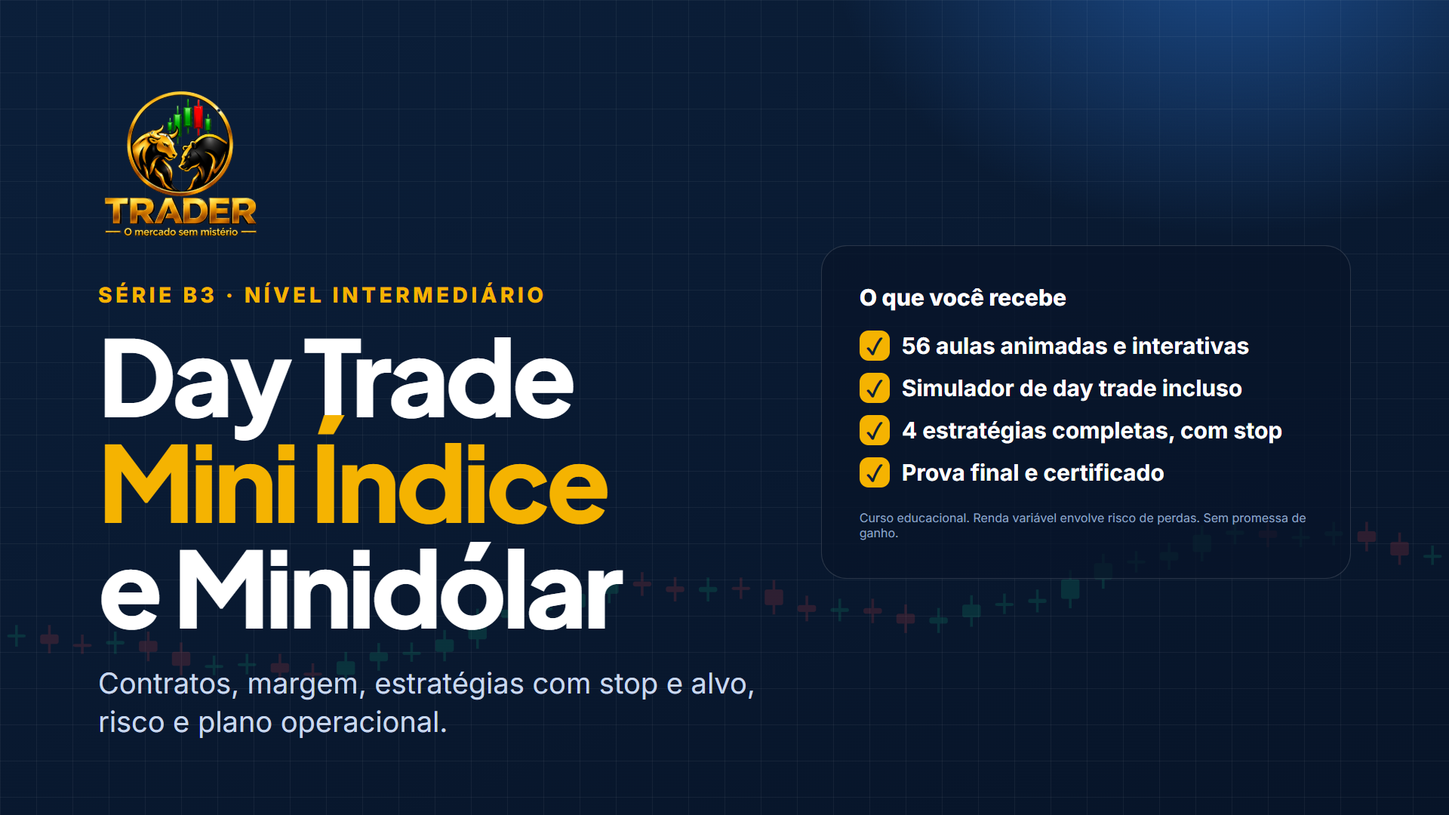
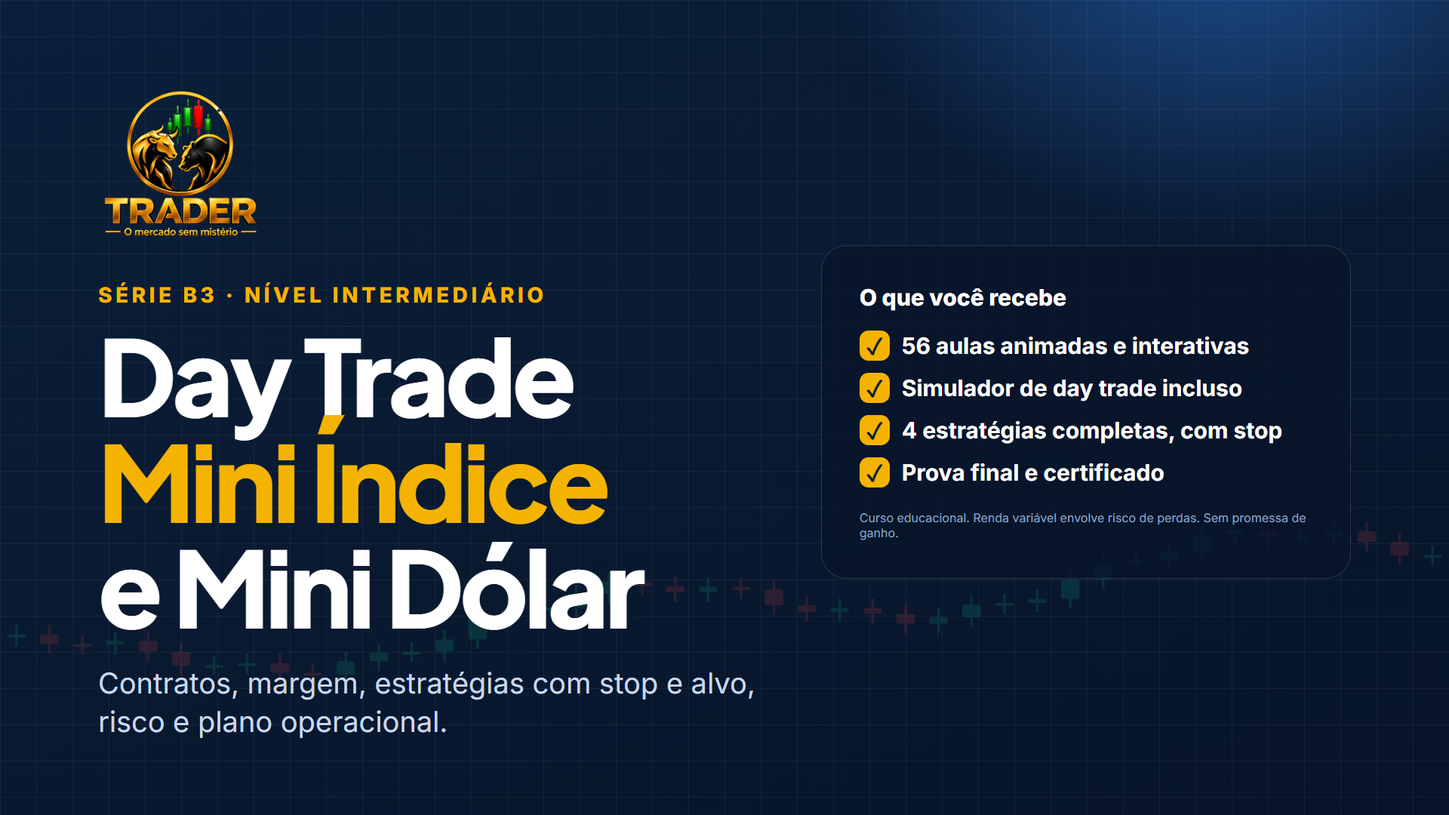
Day Trade: "Mini Dólar" separado no nome, nos textos e nas imagens

Changed region(s): [[0.25, 0.6417, 0.4688, 0.7944]]

diff --git a/curso-day-trade.html b/curso-day-trade.html
@@ -3,11 +3,11 @@
 <head>
 <meta charset="utf-8">
 <meta name="viewport" content="width=device-width, initial-scale=1">
-<title>Day Trade — Dominando o Mini Índice e o Minidólar | Curso com simulador</title>
-<meta name="description" content="Mini índice e minidólar com método: contratos, margem, estratégias com stop e alvo, risco, psicologia e plano operacional. 56 aulas e simulador.">
-<meta property="og:title" content="Day Trade — Dominando o Mini Índice e o Minidólar">
-<meta property="og:description" content="Mini índice e minidólar com método: contratos, margem, estratégias com stop e alvo, risco, psicologia e plano operacional. 56 aulas e simulador.">
-<meta property="og:image" content="https://mesquitaigorsaas.github.io/mercadosemmisterio/assets/img/produtos/day-trade-banner-1920x1080.png">
+<title>Day Trade — Dominando o Mini Índice e o Mini Dólar | Curso com simulador</title>
+<meta name="description" content="Mini índice e mini dólar com método: contratos, margem, estratégias com stop e alvo, risco, psicologia e plano operacional. 56 aulas e simulador.">
+<meta property="og:title" content="Day Trade — Dominando o Mini Índice e o Mini Dólar">
+<meta property="og:description" content="Mini índice e mini dólar com método: contratos, margem, estratégias com stop e alvo, risco, psicologia e plano operacional. 56 aulas e simulador.">
+<meta property="og:image" content="https://mesquitaigorsaas.github.io/mercadosemmisterio/assets/img/produtos/day-trade-banner-1920x1080.png?v=2">
 <meta name="theme-color" content="#050e1f">
 <link rel="icon" href="assets/img/emblema-128.png">
 <link rel="preconnect" href="https://fonts.googleapis.com"><link rel="preconnect" href="https://fonts.gstatic.com" crossorigin>
@@ -76,14 +76,14 @@
 
 <section class="hero" style="padding-bottom:70px"><canvas data-velas aria-hidden="true"></canvas><span class="brilho" style="background:#f5b301;top:-140px;left:30%;opacity:.16"></span><div class="wrap hero-curso">
   <div>
-    <span class="eyebrow" style="display:block">Day Trade — Dominando o Mini Índice e o Minidólar · intermediário</span>
-    <h1 style="font-size:clamp(34px,5.2vw,58px);margin-top:14px">Mini índice e minidólar com <em>método</em> — e não no impulso.</h1>
+    <span class="eyebrow" style="display:block">Day Trade — Dominando o Mini Índice e o Mini Dólar · intermediário</span>
+    <h1 style="font-size:clamp(34px,5.2vw,58px);margin-top:14px">Mini índice e mini dólar com <em>método</em> — e não no impulso.</h1>
     <p class="lead">56 aulas animadas e interativas e um simulador de day trade para treinar sem dinheiro real. Entenda o que você está operando, quanto pode perder, quando entrar, quando não entrar e como sair.</p>
     <div class="preco-hero"><b>R$ 97</b><span>à vista no Pix ou em até 12x no cartão</span></div>
     <div class="acoes"><a class="btn btn-ouro btn-g" href="#oferta" data-comprar data-curso="day-trade">Quero começar agora</a><a class="btn btn-sec btn-g" href="#conteudo">Ver o conteúdo</a></div>
     <div class="selos"><span>🛡 7 dias de garantia</span><span>🎓 Certificado</span><span>♾ Acesso vitalício</span><span>📱 No computador e no celular</span><span>🔒 Pagamento seguro pelo Mercado Pago</span></div>
   </div>
-  <div class="tela-mock surge"><img src="assets/img/produtos/day-trade-banner-1920x1080.png" alt="Day Trade — Dominando o Mini Índice e o Minidólar" width="1920" height="1080"><div class="pill">✓ Simulador de WIN e WDO, candle a candle</div></div>
+  <div class="tela-mock surge"><img src="assets/img/produtos/day-trade-banner-1920x1080.png?v=2" alt="Day Trade — Dominando o Mini Índice e o Mini Dólar" width="1920" height="1080"><div class="pill">✓ Simulador de WIN e WDO, candle a candle</div></div>
 </div></section>
 
 <section style="padding:0 0 70px"><div class="wrap">
@@ -113,9 +113,9 @@
   <div class="sec-titulo surge"><span class="eyebrow">Conteúdo completo</span><h2>10 módulos, 56 aulas</h2><p>Clique em cada módulo para ver as aulas. No fim: prova final e certificado.</p></div>
   <div>
     <details class="mod surge"><summary><span class="n">Módulo 0</span><span>Boas-vindas e a verdade sobre o day trade</span><span class="q">4 aulas</span></summary><ol><li><b class="ouro">0.1</b> Boas-vindas e mapa do curso</li><li><b class="ouro">0.2</b> A verdade sobre o day trade</li><li><b class="ouro">0.3</b> Alavancagem: o aviso que vem primeiro</li><li><b class="ouro">0.4</b> Pré-requisitos e ambiente</li></ol></details>
-    <details class="mod surge"><summary><span class="n">Módulo 1</span><span>Os contratos: mini índice e minidólar</span><span class="q">7 aulas</span></summary><ol><li><b class="ouro">1.1</b> O que é um contrato futuro</li><li><b class="ouro">1.2</b> Mini índice (WIN): a ficha técnica</li><li><b class="ouro">1.3</b> Minidólar (WDO): a ficha técnica</li><li><b class="ouro">1.4</b> Códigos, vencimentos e rolagem</li><li><b class="ouro">1.5</b> Ajuste diário</li><li><b class="ouro">1.6</b> Horários, leilão e circuit breaker</li><li><b class="ouro">1.7</b> Custos e impostos do day trade</li></ol></details>
+    <details class="mod surge"><summary><span class="n">Módulo 1</span><span>Os contratos: mini índice e mini dólar</span><span class="q">7 aulas</span></summary><ol><li><b class="ouro">1.1</b> O que é um contrato futuro</li><li><b class="ouro">1.2</b> Mini índice (WIN): a ficha técnica</li><li><b class="ouro">1.3</b> Mini Dólar (WDO): a ficha técnica</li><li><b class="ouro">1.4</b> Códigos, vencimentos e rolagem</li><li><b class="ouro">1.5</b> Ajuste diário</li><li><b class="ouro">1.6</b> Horários, leilão e circuit breaker</li><li><b class="ouro">1.7</b> Custos e impostos do day trade</li></ol></details>
     <details class="mod surge"><summary><span class="n">Módulo 2</span><span>Margem e alavancagem</span><span class="q">5 aulas</span></summary><ol><li><b class="ouro">2.1</b> O que é margem de garantia</li><li><b class="ouro">2.2</b> Alavancagem em números</li><li><b class="ouro">2.3</b> Margem de day trade × de posição</li><li><b class="ouro">2.4</b> Zeragem compulsória e chamada de margem</li><li><b class="ouro">2.5</b> Quando se perde mais do que se tem</li></ol></details>
-    <details class="mod surge"><summary><span class="n">Módulo 3</span><span>Leitura do mercado em tempo real</span><span class="q">7 aulas</span></summary><ol><li><b class="ouro">3.1</b> O que move o mini índice</li><li><b class="ouro">3.2</b> O que move o minidólar</li><li><b class="ouro">3.3</b> A agenda econômica</li><li><b class="ouro">3.4</b> A abertura e o gap</li><li><b class="ouro">3.5</b> O livro de ofertas nos futuros</li><li><b class="ouro">3.6</b> Times &amp;amp; Trades e agressão</li><li><b class="ouro">3.7</b> Tempos gráficos e a VWAP</li></ol></details>
+    <details class="mod surge"><summary><span class="n">Módulo 3</span><span>Leitura do mercado em tempo real</span><span class="q">7 aulas</span></summary><ol><li><b class="ouro">3.1</b> O que move o mini índice</li><li><b class="ouro">3.2</b> O que move o mini dólar</li><li><b class="ouro">3.3</b> A agenda econômica</li><li><b class="ouro">3.4</b> A abertura e o gap</li><li><b class="ouro">3.5</b> O livro de ofertas nos futuros</li><li><b class="ouro">3.6</b> Times &amp;amp; Trades e agressão</li><li><b class="ouro">3.7</b> Tempos gráficos e a VWAP</li></ol></details>
     <details class="mod surge"><summary><span class="n">Módulo 4</span><span>Estratégias de entrada e saída</span><span class="q">7 aulas</span></summary><ol><li><b class="ouro">4.1</b> Anatomia de uma estratégia</li><li><b class="ouro">4.2</b> Rompimento da faixa de abertura</li><li><b class="ouro">4.3</b> Pullback na VWAP</li><li><b class="ouro">4.4</b> Reversão nas regiões do dia anterior</li><li><b class="ouro">4.5</b> A tendência do dia</li><li><b class="ouro">4.6</b> Quando não operar</li><li><b class="ouro">4.7</b> Saídas: alvo, parcial e stop móvel</li></ol></details>
     <details class="mod surge"><summary><span class="n">Módulo 5</span><span>Stop loss e stop gain</span><span class="q">6 aulas</span></summary><ol><li><b class="ouro">5.1</b> Stop técnico × stop financeiro</li><li><b class="ouro">5.2</b> Onde colocar o stop no WIN e no WDO</li><li><b class="ouro">5.3</b> Stop gain e alvos realistas</li><li><b class="ouro">5.4</b> Breakeven e stop móvel</li><li><b class="ouro">5.5</b> A boleta dos futuros e a ordem OCO</li><li><b class="ouro">5.6</b> Slippage, notícia e gap</li></ol></details>
     <details class="mod surge"><summary><span class="n">Módulo 6</span><span>Gestão de risco no day trade</span><span class="q">5 aulas</span></summary><ol><li><b class="ouro">6.1</b> Risco por operação em pontos e reais</li><li><b class="ouro">6.2</b> Quantos contratos operar</li><li><b class="ouro">6.3</b> Stop do dia e da semana</li><li><b class="ouro">6.4</b> Sequência de perdas</li><li><b class="ouro">6.5</b> Expectativa: acerto × payoff</li></ol></details>
@@ -138,7 +138,7 @@
 </div></section>
 
 <section style="background:var(--bg2)"><div class="wrap grade2">
-  <div class="card para sim surge" style="padding:28px"><h3 style="font-size:22px">Este curso é para você se…</h3><ul><li>Já sabe o básico da Bolsa (candles, ordens e stop).</li><li>Quer operar mini índice e minidólar com método.</li><li>Quer entender, antes de arriscar, se o day trade é para você.</li><li>Quer treinar no simulador antes da conta real.</li></ul></div>
+  <div class="card para sim surge" style="padding:28px"><h3 style="font-size:22px">Este curso é para você se…</h3><ul><li>Já sabe o básico da Bolsa (candles, ordens e stop).</li><li>Quer operar mini índice e mini dólar com método.</li><li>Quer entender, antes de arriscar, se o day trade é para você.</li><li>Quer treinar no simulador antes da conta real.</li></ul></div>
   <div class="card para nao surge" style="padding:28px"><h3 style="font-size:22px">Não é para você se…</h3><ul><li>Procura sala de sinais, call ou ganho rápido.</li><li>Não aceita usar stop.</li><li>Pretende operar com dinheiro que faz falta nas contas.</li><li>Ainda não sabe o que é um candle (comece pelo Bolsa de Valores do Zero).</li></ul></div>
 </div></section>
 
@@ -151,7 +151,7 @@
 <section id="oferta" style="background:var(--bg2)"><div class="wrap">
   <div class="oferta surge">
     <span class="tag">Inscrições abertas</span>
-    <h2 style="font-size:30px;margin-top:16px">Day Trade — Dominando o Mini Índice e o Minidólar</h2>
+    <h2 style="font-size:30px;margin-top:16px">Day Trade — Dominando o Mini Índice e o Mini Dólar</h2>
     <div class="valor" style="margin-top:18px">R$ 97</div>
     <p class="soft" style="margin:0">à vista no Pix ou em até 12x no cartão</p>
     <ul><li>56 aulas em 10 módulos, dos contratos ao plano operacional</li><li>Simulador de day trade e calculadora de contratos</li><li>4 estratégias completas, sempre com stop e alvo</li><li>Prova final e certificado de conclusão</li><li>Acesso vitalício, no computador e no celular</li></ul>
@@ -180,7 +180,7 @@
   <div class="cols">
     <div><a class="marca" href="./" style="margin-bottom:10px"><img src="assets/img/emblema-160.png" alt=""><span>Mercado Sem Mistério</span></a><p>Conteúdo educacional sobre o mercado financeiro, por Igor Mesquita.</p></div>
     <div><h4>Site</h4><a href="./">Mercado ao vivo</a><a href="./#noticias">Notícias</a><a href="ferramentas/calculadora.html">Calculadora</a><a href="aula-gratis/">Aula grátis</a><a href="area/">Área do aluno</a></div>
-    <div><h4>Cursos</h4><a href="curso.html">Forex do Zero</a><a href="curso-bolsa.html">Bolsa de Valores do Zero</a><a href="curso-day-trade.html">Day Trade: Mini Índice e Minidólar</a></div>
+    <div><h4>Cursos</h4><a href="curso.html">Forex do Zero</a><a href="curso-bolsa.html">Bolsa de Valores do Zero</a><a href="curso-day-trade.html">Day Trade: Mini Índice e Mini Dólar</a></div>
     <div><h4>Legal</h4><a href="termos.html">Termos de uso e aviso de risco</a><a href="privacidade.html">Política de privacidade</a></div>
   </div>
   <div class="aviso-risco"><b class="ouro">Aviso de risco.</b> Operar no mercado financeiro, especialmente com alavancagem, envolve risco alto de perda, inclusive de todo o capital aplicado. Este curso é educacional: não é recomendação de investimento, não oferece sinais de compra ou venda e não promete resultado. Os exemplos com operações e gráficos são ilustrativos ou reconstruções didáticas, sempre indicadas como tal. Resultados passados não garantem resultados futuros.</div>
@@ -193,6 +193,6 @@ addEventListener("scroll", () => document.getElementById("ctaFixo").classList.to
 </script>
 <script src="assets/site.js?v=12"></script>
 <script src="assets/anim.js?v=8"></script>
-<script src="assets/comprar.js?v=3"></script>
+<script src="assets/comprar.js?v=4"></script>
 </body>
 </html>

diff --git a/index.html b/index.html
@@ -4,7 +4,7 @@
 <meta charset="utf-8">
 <meta name="viewport" content="width=device-width, initial-scale=1">
 <title>Mercado Sem Mistério — o mercado financeiro em tempo real, explicado</title>
-<meta name="description" content="Cotações, notícias do Brasil e do mundo e a agenda econômica da semana, num só lugar. E os cursos Forex do Zero, Aprenda Bolsa de Valores do Zero e Day Trade — Dominando o Mini Índice e o Minidólar.">
+<meta name="description" content="Cotações, notícias do Brasil e do mundo e a agenda econômica da semana, num só lugar. E os cursos Forex do Zero, Aprenda Bolsa de Valores do Zero e Day Trade — Dominando o Mini Índice e o Mini Dólar.">
 <meta property="og:title" content="Mercado Sem Mistério">
 <meta property="og:description" content="O mercado financeiro em tempo real, explicado sem promessas e sem economês.">
 <meta property="og:image" content="https://mercadosemmisterio.com.br/assets/img/og.png">
@@ -113,9 +113,9 @@
       </div>
     </article>
     <article class="curso-card surge">
-      <a class="capa" href="curso-day-trade.html"><img src="assets/img/produtos/day-trade-banner-1920x1080.png" alt="Curso Day Trade — Dominando o Mini Índice e o Minidólar" loading="lazy" width="1920" height="1080"><span class="selo">Com simulador de day trade</span></a>
+      <a class="capa" href="curso-day-trade.html"><img src="assets/img/produtos/day-trade-banner-1920x1080.png?v=2" alt="Curso Day Trade — Dominando o Mini Índice e o Mini Dólar" loading="lazy" width="1920" height="1080"><span class="selo">Com simulador de day trade</span></a>
       <div class="corpo">
-        <h3>Day Trade — Dominando o Mini Índice e o Minidólar</h3>
+        <h3>Day Trade — Dominando o Mini Índice e o Mini Dólar</h3>
         <p class="chamada">Os contratos mais negociados da B3 — e os que mais quebram contas por falta de regra. Aprenda o contrato, a margem e o risco, e treine no simulador antes de arriscar um real.</p>
         <ul><li>56 aulas animadas e interativas em 10 módulos</li><li>Simulador de treino e calculadora de contratos</li><li>4 estratégias de estudo, sempre com stop e alvo</li><li>Prova final e certificado</li></ul>
         <div class="rodape-card"><div class="preco"><b>R$ 97</b><span>ou em até 12x no cartão</span></div><div class="botoes"><a class="btn btn-sec" href="curso-day-trade.html">Ver o curso</a><a class="btn btn-ouro" href="#cursos" data-comprar data-curso="day-trade">Quero começar</a></div></div>
@@ -152,13 +152,13 @@
   <div class="cols">
     <div><a class="marca" href="./" style="margin-bottom:10px"><img src="assets/img/emblema-160.png" alt=""><span>Mercado Sem Mistério</span></a><p>O mercado financeiro explicado com números que você pode conferir. Conteúdo educacional, por Igor Mesquita.</p></div>
     <div><h4>Site</h4><a href="#mercado">Mercado</a><a href="#noticias">Notícias</a><a href="#agenda">Agenda</a><a href="ferramentas/calculadora.html">Calculadora</a></div>
-    <div><h4>Cursos</h4><a href="curso.html">Forex do Zero</a><a href="curso-bolsa.html">Bolsa de Valores do Zero</a><a href="curso-day-trade.html">Day Trade: Mini Índice e Minidólar</a><a href="aula-gratis/">Aula grátis</a><a href="area/">Área do aluno</a><a href="termos.html">Termos de uso e aviso de risco</a><a href="privacidade.html">Política de privacidade</a></div>
+    <div><h4>Cursos</h4><a href="curso.html">Forex do Zero</a><a href="curso-bolsa.html">Bolsa de Valores do Zero</a><a href="curso-day-trade.html">Day Trade: Mini Índice e Mini Dólar</a><a href="aula-gratis/">Aula grátis</a><a href="area/">Área do aluno</a><a href="termos.html">Termos de uso e aviso de risco</a><a href="privacidade.html">Política de privacidade</a></div>
   </div>
   <div class="aviso-risco"><b class="ouro">Aviso de risco.</b> Operar no mercado financeiro, especialmente com alavancagem, envolve risco alto de perda, inclusive de todo o capital aplicado. Todo o conteúdo deste site é educacional e informativo: não é recomendação de investimento, não oferece sinais de compra ou venda e não promete resultado. Cotações e gráficos fornecidos pelo TradingView; manchetes com link para as fontes originais. Resultados passados não garantem resultados futuros.</div>
   <div class="rodape-fim"><p>© 2026 Mercado Sem Mistério · <a href="termos.html">Termos</a> · <a href="privacidade.html">Privacidade</a></p><a class="rodape-insta" href="https://www.instagram.com/traderomercadosemmisterio" target="_blank" rel="noopener"><svg viewBox="0 0 48 48" width="30" height="30" aria-hidden="true"><defs><radialGradient id="ig-grad-r" cx="0.3" cy="1.07" r="1.3"><stop offset="0" stop-color="#fdf497"/><stop offset=".08" stop-color="#fdf497"/><stop offset=".45" stop-color="#fd5949"/><stop offset=".6" stop-color="#d6249f"/><stop offset=".9" stop-color="#285AEB"/></radialGradient></defs><rect width="48" height="48" rx="12" fill="url(#ig-grad-r)"/><rect x="11" y="11" width="26" height="26" rx="8" fill="none" stroke="#fff" stroke-width="3"/><circle cx="24" cy="24" r="6.3" fill="none" stroke="#fff" stroke-width="3"/><circle cx="31.6" cy="16.4" r="1.9" fill="#fff"/></svg><span>@traderomercadosemmisterio</span></a><p class="credito">Desenvolvido por <a href="https://mesquitasaas.online/" target="_blank" rel="noopener"><b>Mesquita SaaS</b></a></p></div>
 </div></footer>
 <script src="assets/site.js?v=12"></script>
 <script src="assets/anim.js?v=8"></script>
-<script src="assets/comprar.js?v=3"></script>
+<script src="assets/comprar.js?v=4"></script>
 </body>
 </html>

diff --git a/termos.html b/termos.html
@@ -15,7 +15,7 @@
 <header class="topo"><div class="wrap"><a class="marca" href="./"><img src="assets/img/emblema-160.png" alt=""><span>Mercado Sem Mistério<small>o mercado, explicado</small></span></a><nav class="menu"><a href="./#mercado">Mercado</a><a href="./#sobe-desce">Sobe e desce</a><a href="./#noticias">Notícias</a><a href="dicas.html">Dicas</a><a href="./#agenda">Agenda</a><a href="curso.html">Curso</a><a href="./#ferramentas">Ferramentas</a></nav><a class="btn btn-ouro" href="curso.html">Conheça o curso</a><a class="insta" href="https://www.instagram.com/traderomercadosemmisterio" target="_blank" rel="noopener" aria-label="Instagram do Mercado Sem Mistério" title="Siga no Instagram"><svg viewBox="0 0 48 48" width="40" height="40" aria-hidden="true"><defs><radialGradient id="ig-grad" cx="0.3" cy="1.07" r="1.3"><stop offset="0" stop-color="#fdf497"/><stop offset=".08" stop-color="#fdf497"/><stop offset=".45" stop-color="#fd5949"/><stop offset=".6" stop-color="#d6249f"/><stop offset=".9" stop-color="#285AEB"/></radialGradient></defs><rect width="48" height="48" rx="12" fill="url(#ig-grad)"/><rect x="11" y="11" width="26" height="26" rx="8" fill="none" stroke="#fff" stroke-width="3"/><circle cx="24" cy="24" r="6.3" fill="none" stroke="#fff" stroke-width="3"/><circle cx="31.6" cy="16.4" r="1.9" fill="#fff"/></svg></a><button class="burger" aria-label="Menu">☰</button></div></header>
 <main class="doc"><span class="eyebrow">Mercado Sem Mistério</span><h1>Termos de uso e aviso de risco</h1>
 <h2>1. Aviso de risco</h2><p>Operar no mercado financeiro — em especial Forex, CFDs, derivativos e qualquer operação com alavancagem — envolve <b>risco alto de perda</b>, inclusive de todo o capital aplicado. Rentabilidade passada não é garantia de rentabilidade futura. Só opere com dinheiro que você pode perder sem prejudicar as suas despesas, as suas dívidas ou a sua reserva de emergência.</p>
-<h2>2. Conteúdo educacional</h2><p>Todo o conteúdo do site e dos cursos <b>Forex do Zero — Entenda e Aprenda a Operar</b>, <b>Aprenda Bolsa de Valores do Zero</b> e <b>Day Trade — Dominando o Mini Índice e o Minidólar</b> é educacional e informativo. Ele <b>não é</b> recomendação de investimento, consultoria, análise de valores mobiliários nem oferta de sinais de compra ou venda, e não promete resultado. As decisões de investir ou operar são exclusivamente suas. Exemplos com operações e gráficos são ilustrativos ou reconstruções didáticas, indicadas como tal.</p>
+<h2>2. Conteúdo educacional</h2><p>Todo o conteúdo do site e dos cursos <b>Forex do Zero — Entenda e Aprenda a Operar</b>, <b>Aprenda Bolsa de Valores do Zero</b> e <b>Day Trade — Dominando o Mini Índice e o Mini Dólar</b> é educacional e informativo. Ele <b>não é</b> recomendação de investimento, consultoria, análise de valores mobiliários nem oferta de sinais de compra ou venda, e não promete resultado. As decisões de investir ou operar são exclusivamente suas. Exemplos com operações e gráficos são ilustrativos ou reconstruções didáticas, indicadas como tal.</p>
 <h2>3. Corretoras e regulação</h2><p>O curso não indica nem é patrocinado por corretoras. Antes de abrir conta, confira se a instituição é autorizada pelos órgãos competentes. A Comissão de Valores Mobiliários (CVM) alerta sobre empresas estrangeiras sem autorização para oferecer serviços a investidores no Brasil — o assunto é tratado nas aulas 3.2 e 3.3.</p>
 <h2>4. Cotações, agenda e notícias</h2><p>Cotações e agenda econômica são fornecidas pelo TradingView e podem ter atraso (dados da B3, por exemplo, podem atrasar até 15 minutos). As manchetes vêm das fontes indicadas, com link para o texto original, e são de responsabilidade delas. Não garantimos a exatidão, a integralidade ou a atualidade desses dados.</p>
 <h2>5. Compra, acesso e garantia</h2><p>Os cursos são vendidos neste site, com pagamento processado pelo Mercado Pago (Pix, cartão de crédito ou boleto), e também pela Hotmart. O acesso é vitalício e liberado na Área do aluno assim que o pagamento é aprovado; para entrar, use o e-mail e o CPF informados na compra. Você tem <b>7 dias</b> a partir da compra para pedir o reembolso integral, sem precisar justificar, conforme o art. 49 do Código de Defesa do Consumidor. Com o reembolso, o acesso ao curso é encerrado.</p>

diff --git a/curso-bolsa.html b/curso-bolsa.html
@@ -177,7 +177,7 @@
   <div class="cols">
     <div><a class="marca" href="./" style="margin-bottom:10px"><img src="assets/img/emblema-160.png" alt=""><span>Mercado Sem Mistério</span></a><p>Conteúdo educacional sobre o mercado financeiro, por Igor Mesquita.</p></div>
     <div><h4>Site</h4><a href="./">Mercado ao vivo</a><a href="./#noticias">Notícias</a><a href="ferramentas/calculadora.html">Calculadora</a><a href="aula-gratis/">Aula grátis</a><a href="area/">Área do aluno</a></div>
-    <div><h4>Cursos</h4><a href="curso.html">Forex do Zero</a><a href="curso-bolsa.html">Bolsa de Valores do Zero</a><a href="curso-day-trade.html">Day Trade: Mini Índice e Minidólar</a></div>
+    <div><h4>Cursos</h4><a href="curso.html">Forex do Zero</a><a href="curso-bolsa.html">Bolsa de Valores do Zero</a><a href="curso-day-trade.html">Day Trade: Mini Índice e Mini Dólar</a></div>
     <div><h4>Legal</h4><a href="termos.html">Termos de uso e aviso de risco</a><a href="privacidade.html">Política de privacidade</a></div>
   </div>
   <div class="aviso-risco"><b class="ouro">Aviso de risco.</b> Operar no mercado financeiro, especialmente com alavancagem, envolve risco alto de perda, inclusive de todo o capital aplicado. Este curso é educacional: não é recomendação de investimento, não oferece sinais de compra ou venda e não promete resultado. Os exemplos com operações e gráficos são ilustrativos ou reconstruções didáticas, sempre indicadas como tal. Resultados passados não garantem resultados futuros.</div>
@@ -190,6 +190,6 @@ addEventListener("scroll", () => document.getElementById("ctaFixo").classList.to
 </script>
 <script src="assets/site.js?v=12"></script>
 <script src="assets/anim.js?v=8"></script>
-<script src="assets/comprar.js?v=3"></script>
+<script src="assets/comprar.js?v=4"></script>
 </body>
 </html>

diff --git a/curso.html b/curso.html
@@ -196,7 +196,7 @@
   <div class="cols">
     <div><a class="marca" href="./" style="margin-bottom:10px"><img src="assets/img/emblema-160.png" alt=""><span>Mercado Sem Mistério</span></a><p>Conteúdo educacional sobre o mercado financeiro, por Igor Mesquita.</p></div>
     <div><h4>Site</h4><a href="./">Mercado ao vivo</a><a href="./#noticias">Notícias</a><a href="ferramentas/calculadora.html">Calculadora</a><a href="aula-gratis/">Aula grátis</a><a href="area/">Área do aluno</a></div>
-    <div><h4>Cursos</h4><a href="curso.html">Forex do Zero</a><a href="curso-bolsa.html">Bolsa de Valores do Zero</a><a href="curso-day-trade.html">Day Trade: Mini Índice e Minidólar</a></div>
+    <div><h4>Cursos</h4><a href="curso.html">Forex do Zero</a><a href="curso-bolsa.html">Bolsa de Valores do Zero</a><a href="curso-day-trade.html">Day Trade: Mini Índice e Mini Dólar</a></div>
     <div><h4>Legal</h4><a href="termos.html">Termos de uso e aviso de risco</a><a href="privacidade.html">Política de privacidade</a></div>
   </div>
   <div class="aviso-risco"><b class="ouro">Aviso de risco.</b> Operar no mercado financeiro, especialmente com alavancagem, envolve risco alto de perda, inclusive de todo o capital aplicado. Este curso é educacional: não é recomendação de investimento, não oferece sinais de compra ou venda e não promete resultado. Os exemplos com operações e gráficos são ilustrativos ou reconstruções didáticas, sempre indicadas como tal. Resultados passados não garantem resultados futuros.</div>
@@ -216,6 +216,6 @@ addEventListener("scroll", () => document.getElementById("ctaFixo").classList.to
 </script>
 <script src="assets/site.js?v=12"></script>
 <script src="assets/anim.js?v=8"></script>
-<script src="assets/comprar.js?v=3"></script>
+<script src="assets/comprar.js?v=4"></script>
 </body>
 </html>

diff --git a/assets/comprar.js b/assets/comprar.js
@@ -5,7 +5,7 @@
   const CURSOS = {
     "forex": { nome: "Forex do Zero — Entenda e Aprenda a Operar", resumo: "99 aulas · 14 módulos · apostilas e certificado" },
     "bolsa-do-zero": { nome: "Aprenda Bolsa de Valores do Zero", resumo: "65 aulas · 10 módulos · prova e certificado" },
-    "day-trade": { nome: "Day Trade — Dominando o Mini Índice e o Minidólar", resumo: "56 aulas · simulador de day trade · certificado" },
+    "day-trade": { nome: "Day Trade — Dominando o Mini Índice e o Mini Dólar", resumo: "56 aulas · simulador de day trade · certificado" },
   };
   const HOTMART = { "forex": "https://pay.hotmart.com/B108196908U", "bolsa-do-zero": "https://pay.hotmart.com/V108276074N" };
   const PRECO = "R$ 97", PARCELAS = "à vista no Pix ou em até 12x no cartão";

diff --git a/obrigado.html b/obrigado.html
@@ -38,7 +38,7 @@
 </main>
 <script>
 const FUNCAO = "https://kgyhgfxkhrdeucvsvehk.supabase.co/functions/v1/pagar";
-const NOMES = { "forex": "Forex do Zero", "bolsa-do-zero": "Aprenda Bolsa de Valores do Zero", "day-trade": "Day Trade — Dominando o Mini Índice e o Minidólar" };
+const NOMES = { "forex": "Forex do Zero", "bolsa-do-zero": "Aprenda Bolsa de Valores do Zero", "day-trade": "Day Trade — Dominando o Mini Índice e o Mini Dólar" };
 const PAGINAS = { "forex": "curso.html", "bolsa-do-zero": "curso-bolsa.html", "day-trade": "curso-day-trade.html" };
 let codigo = new URLSearchParams(location.search).get("pedido") || "";
 try { if (!codigo) codigo = localStorage.getItem("msm.ultimo-pedido") || ""; } catch (_) {}

diff --git a/area/index.html b/area/index.html
@@ -59,7 +59,7 @@ const destino = "curso/" + voltaValida;
 const CURSOS = {
   "forex": { nome: "Forex do Zero — Entenda e Aprenda a Operar", pasta: "" },
   "bolsa-do-zero": { nome: "Aprenda Bolsa de Valores do Zero", pasta: "bolsa-do-zero/" },
-  "day-trade": { nome: "Day Trade — Dominando o Mini Índice e o Minidólar", pasta: "day-trade/" },
+  "day-trade": { nome: "Day Trade — Dominando o Mini Índice e o Mini Dólar", pasta: "day-trade/" },
 };
 /* cursos ativos da pessoa; null se não deu para perguntar (aí o botão leva ao destino de sempre) */
 async function meusCursos(s) {
